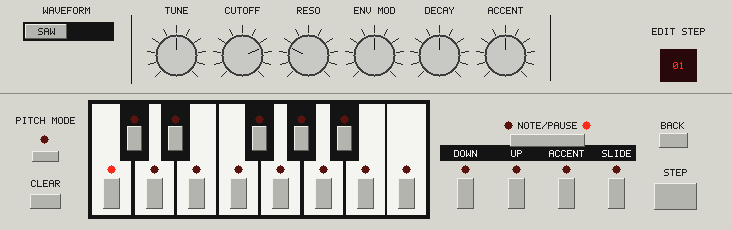
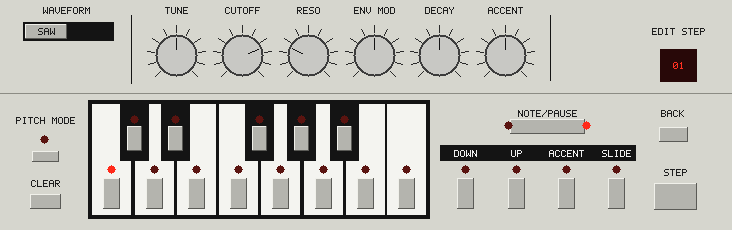
feat(gui): feedback round 1 final — switch layout, rail button+LED [§12.11 G9]
Note/Pause legend between its LEDs, wide rect beneath (BACK back on
its row); rail chips are labeled buttons + radio-dot LEDs (Pressed
notify, Selected mirror). A bg divider groove was tried and dropped
(paints under the button face: proven by unchanged raster). t92/t93
re-pinned (8 synth pins; one set initially taken from a stale-object
tree and corrected after clean+all). Audit: AUDIT 0/0 PASS.

Changed region(s): [[0.6913, 0.4565, 0.8115, 0.6391], [0.9016, 0.4565, 0.9617, 0.6696]]

diff --git a/app/riapp.c b/app/riapp.c
@@ -143,6 +143,7 @@ static const struct RSectionDiag *s_dg[C_N];
 static struct RIVisSet s_vis;
 static Object *s_devrow[4];
 static Object *s_devbtn[4];
+static Object *s_devled[4];
 static char s_devlbl[4][16];
 #define RIAPP_ID_DEV0 1001u /* + device: Devices-tab toggle buttons */
 
@@ -532,8 +533,9 @@ static Object *tab_device_page(uint32_t group, struct RIVisSet *vis,
 }
 
 /* Device rail (owner 2026-09-27): slim always-visible row of on/off
- * chips above the Register. Each chip is a checkmark + label (state
- * lives in the widget); labels live in s_devlbl (kept, static). */
+ * chips above the Register. Each chip is a labeled button plus a radio
+ * dot (LED semantics: filled = active); the button carries the press,
+ * the dot mirrors state. Labels live in s_devlbl (kept, static). */
 static Object *tab_rail(void) {
     Object *rail;
     uint32_t d;
@@ -544,30 +546,39 @@ static Object *tab_rail(void) {
     for (d = 0u; d < 4u; d++) {
         const struct RIPanelDesc *pd = ri_panel_get(d);
         const char *nm = (pd && pd->name) ? pd->name : "?";
-        Object *btn;
+        Object *btn, *led, *chip;
         snprintf(s_devlbl[d], sizeof s_devlbl[d], "%s", nm);
-        btn = (Object *)MUI_MakeObject(MUIO_Checkmark, (IPTR)s_devlbl[d]);
-        if (!btn)
+        btn = (Object *)MUI_MakeObject(MUIO_Button, (IPTR)s_devlbl[d]);
+        led = (Object *)MUI_NewObject(MUIC_Image,
+            MUIA_Image_Spec, (IPTR)MUII_RadioButton,
+            MUIA_ShowSelState, TRUE,
+            MUIA_Selected, TRUE,
+            MUIA_InputMode, MUIV_InputMode_None,
+            TAG_DONE);
+        chip = (btn && led) ? (Object *)MUI_NewObject(MUIC_Group,
+            MUIA_Group_Horiz, TRUE, MUIA_Group_Spacing, 2,
+            Child, (IPTR)btn, Child, (IPTR)led, TAG_DONE) : 0;
+        if (!chip)
             return 0;
-        SetAttrs(btn, MUIA_Selected, TRUE, TAG_DONE);
         s_devbtn[d] = btn;
-        DoMethod(rail, OM_ADDMEMBER, (IPTR)btn);
+        s_devled[d] = led;
+        DoMethod(rail, OM_ADDMEMBER, (IPTR)chip);
     }
     return rail;
 }
 
-/* Rail toggle: the chip's Selected state drives the visible bit, the
- * row ShowMe, and the engine bit with it (ACTIVE, rack requirement
+/* Rail toggle: flip the visible bit, ShowMe the row, mirror the LED —
+ * and flip the engine bit with it (ACTIVE, rack requirement
  * 2026-09-24). */
 static void dev_visibility_toggle(uint32_t dev) {
-    IPTR sel = 0;
     int show;
     uint32_t d, mask = 0u;
     if (dev >= 4u || !s_devbtn[dev])
         return;
-    GetAttr(MUIA_Selected, s_devbtn[dev], &sel);
-    show = sel ? 1 : 0;
+    show = !ri_vis_get(&s_vis, dev);
     ri_vis_set(&s_vis, dev, show);
+    if (s_devled[dev])
+        SetAttrs(s_devled[dev], MUIA_Selected, show ? TRUE : FALSE, TAG_DONE);
     if (s_devrow[dev])
         SetAttrs(s_devrow[dev], MUIA_ShowMe, show ? TRUE : FALSE, TAG_DONE);
     for (d = 0u; d < 4u; d++)
@@ -810,7 +821,7 @@ int main(int argc, char **argv) {
     DoMethod(win, MUIM_Notify, MUIA_Window_CloseRequest, TRUE, (IPTR)app, 2,
         MUIM_Application_ReturnID, MUIV_Application_ReturnID_Quit);
     for (i = 0; i < 4; i++)
-        DoMethod(s_devbtn[i], MUIM_Notify, MUIA_Selected, MUIV_EveryTime, (IPTR)app, 3,
+        DoMethod(s_devbtn[i], MUIM_Notify, MUIA_Pressed, FALSE, (IPTR)app, 3,
             MUIM_Application_ReturnID, RIAPP_ID_DEV0 + (ULONG)i);
     SetAttrs(win, MUIA_Window_Open, TRUE, TAG_DONE);
     rlog("RIAPP panel: tabbed Synths/Drums/Mix/FX + transport (2026-09-27)\n",

diff --git a/gui/panelgeo.c b/gui/panelgeo.c
@@ -43,15 +43,15 @@ static const struct RIGeoItem RI_GEO_303[] = {
     /* right of the keyboard: +20 Q from the figure so nothing touches the
      * keyboard block's rim (owner, Dell 2026-09-26) */
     /* Note/Pause toggle with its two state LEDs */
-    { S1(24), RI_GEO_RECT, 0, 1094, 280, 150, 24 },
-    { S1(24), RI_GEO_LEGEND, 0, 1094, 250, 0, 0 },
+    { S1(24), RI_GEO_RECT, 0, 1094, 252, 150, 27 },
+    { S1(24), RI_GEO_LEGEND, 0, 1094, 225, 0, 0 },
     { S1(24), RI_GEO_LED, 0, 1016, 250, 12, 12 },
     { S1(24), RI_GEO_LED, 0, 1172, 250, 12, 12 },
     /* Down Up Accent Slide */
     SBTN(20, 929), SBTN(21, 1031), SBTN(22, 1131), SBTN(23, 1231),
     /* Back / Step */
-    { S1(25), RI_GEO_RECT, 0, 1345, 280, 58, 30 },
-    { S1(25), RI_GEO_LEGEND, 0, 1344, 250, 0, 0 },
+    { S1(25), RI_GEO_RECT, 0, 1345, 267, 58, 30 },
+    { S1(25), RI_GEO_LEGEND, 0, 1344, 225, 0, 0 },
     { S1(26), RI_GEO_RECT, 0, 1349, 392, 86, 53 },
     { S1(26), RI_GEO_LEGEND, 0, 1349, 343, 0, 0 },
 };

diff --git a/tests/unit/t92_draw_hash.c b/tests/unit/t92_draw_hash.c
@@ -26,14 +26,14 @@ static const uint8_t T_SECS[] = {
 
 /* Pinned hashes (first GREEN run): any drawing change is deliberate. */
 static const struct { uint8_t sec, z; uint32_t h; } T_PIN[] = {
-    { 0u, 0u, 0x03c5c3dfu },
-    { 0u, 1u, 0x74efafb3u },
-    { 0u, 2u, 0x673cb1f8u },
-    { 0u, 3u, 0x89f6d842u },
-    { 1u, 0u, 0x03c5c3dfu },
-    { 1u, 1u, 0x74efafb3u },
-    { 1u, 2u, 0x673cb1f8u },
-    { 1u, 3u, 0x89f6d842u },
+    { 0u, 0u, 0xbbec181du },
+    { 0u, 1u, 0x325393dbu },
+    { 0u, 2u, 0x527ea532u },
+    { 0u, 3u, 0x5afe0508u },
+    { 1u, 0u, 0xbbec181du },
+    { 1u, 1u, 0x325393dbu },
+    { 1u, 2u, 0x527ea532u },
+    { 1u, 3u, 0x5afe0508u },
     { 2u, 0u, 0xa09e073cu },
     { 2u, 1u, 0xd88bd2cbu },
     { 2u, 2u, 0x3ace0365u },

diff --git a/tests/unit/t93_raster_goldens.c b/tests/unit/t93_raster_goldens.c
@@ -142,14 +142,14 @@ static int load_skin(const char *dir, int zoom, struct RISkin *skin) {
 }
 
 static const struct { uint8_t sec, z; uint32_t h; } T_PIN[] = {
-    { 0u, 0u, 0x8022a0b4u },
-    { 0u, 1u, 0xddb0661au },
-    { 0u, 2u, 0x2421f21eu },
-    { 0u, 3u, 0x7e8d2a65u },
-    { 1u, 0u, 0x8022a0b4u },
-    { 1u, 1u, 0xddb0661au },
-    { 1u, 2u, 0x2421f21eu },
-    { 1u, 3u, 0x7e8d2a65u },
+    { 0u, 0u, 0x02ff8084u },
+    { 0u, 1u, 0xb297ee22u },
+    { 0u, 2u, 0x72dad5dcu },
+    { 0u, 3u, 0x71a7f1c7u },
+    { 1u, 0u, 0x02ff8084u },
+    { 1u, 1u, 0xb297ee22u },
+    { 1u, 2u, 0x72dad5dcu },
+    { 1u, 3u, 0x71a7f1c7u },
     { 2u, 0u, 0xb89a2b83u },
     { 2u, 1u, 0x2c062e4bu },
     { 2u, 2u, 0xe0d16e0eu },

diff --git a/docs/2026-09-24-improvement-todo.md b/docs/2026-09-24-improvement-todo.md
@@ -174,8 +174,11 @@ Rules: TDD RED-first per change; `ri_audit.sh` 0/0 before each commit; feat:/doc
     design. Device proof open (labeled toggle + 01xx CTLs + sung 303B).
   - GUI feedback round 1 (owner 2026-09-27, unproven): Note/Pause legend
     between its LEDs, wide switch rect under the LED pair, BACK
-    re-centered to the row (rect y280, legend y250); rail chips are
-    checkmark+label (Selected-driven). t92/t93 re-pinned (8 synth pins).
+    between its LEDs with the rect widened beneath (BACK reverted to
+    its row); rail chips are labeled button + radio-dot LED (Pressed
+    notify, Selected mirror). Divider-line attempt dropped (paints under
+    the button face). t92/t93 re-pinned (8 synth pins, clean-build
+    ground truth after a stale-object mis-pin).
 
 ## Planned devices (extensible rack, spec D-k)
 - [ ] Korg Electribe ESX-1 — owner plan 2026-09-26; requirement + rules for current work: `docs/superpowers/specs/2026-09-26-device-korg-esx1-requirement.md` (no 4-device assumptions; new lane-key block, strip, skin token, RBNG chunks — chunk IDs owner review; E1 = Korg ESX-1 manual; clean-room: no Korg samples/ROM/art).
